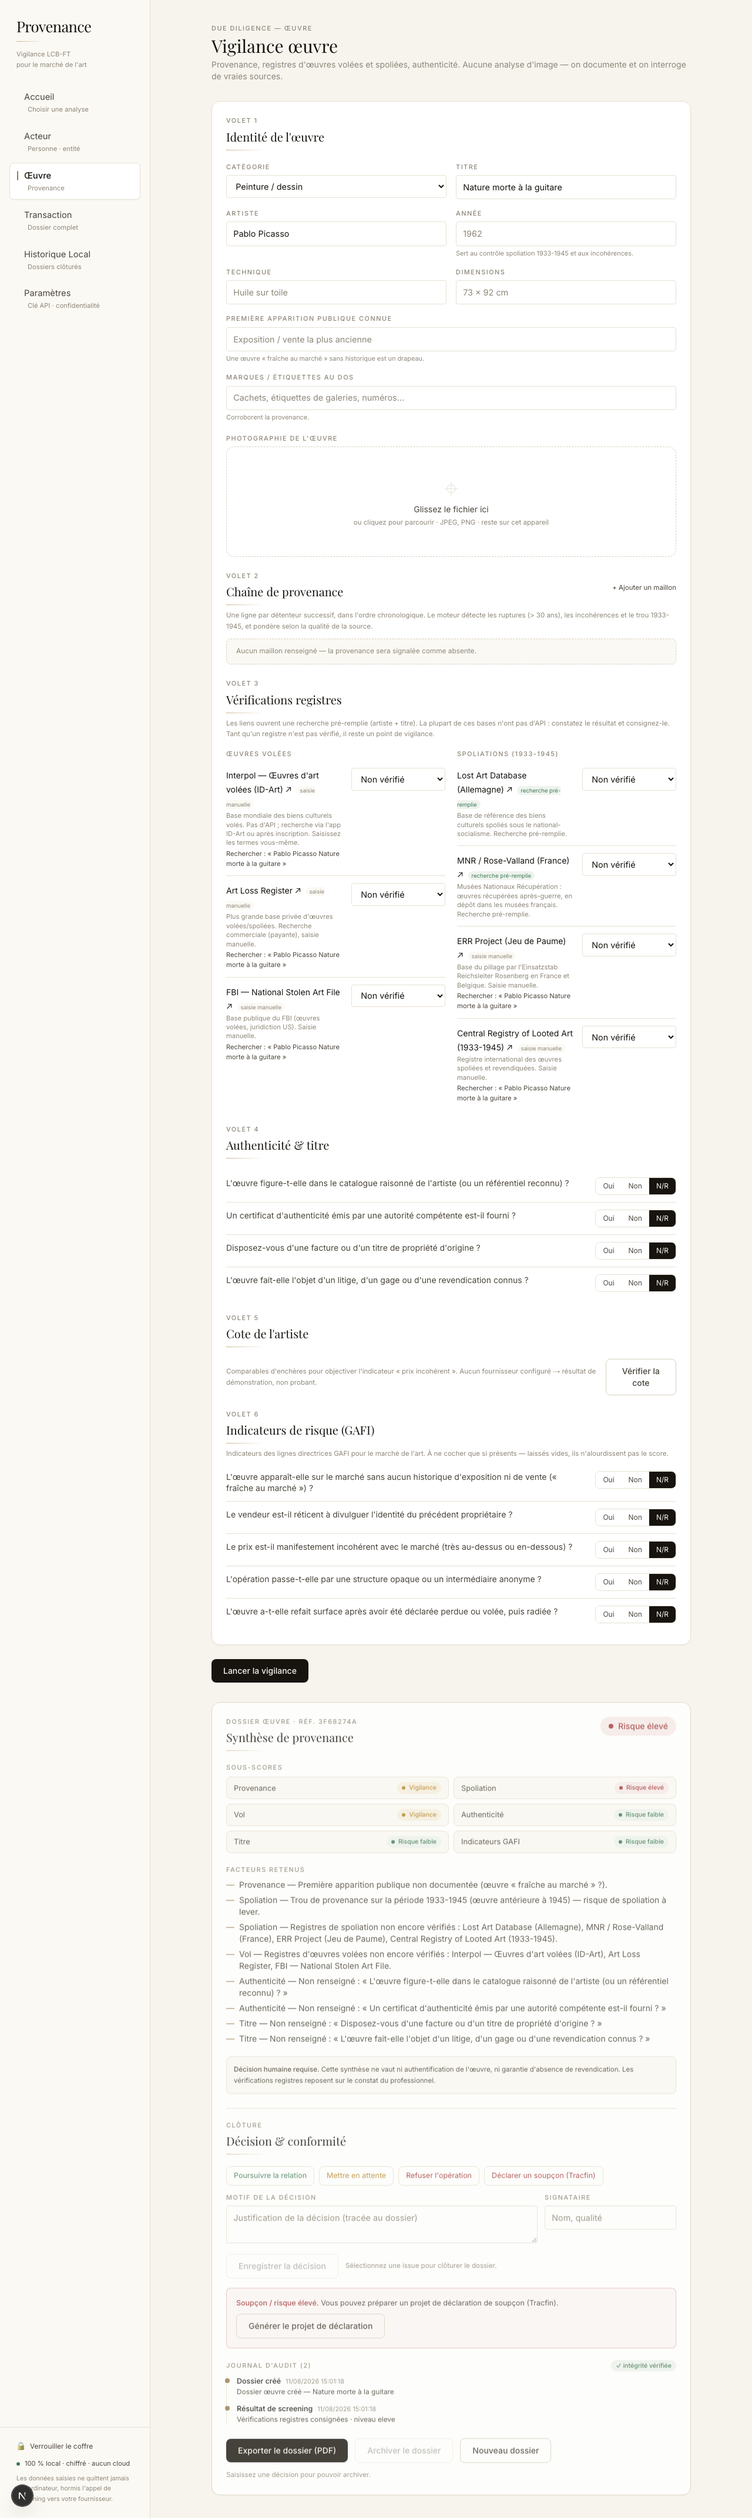
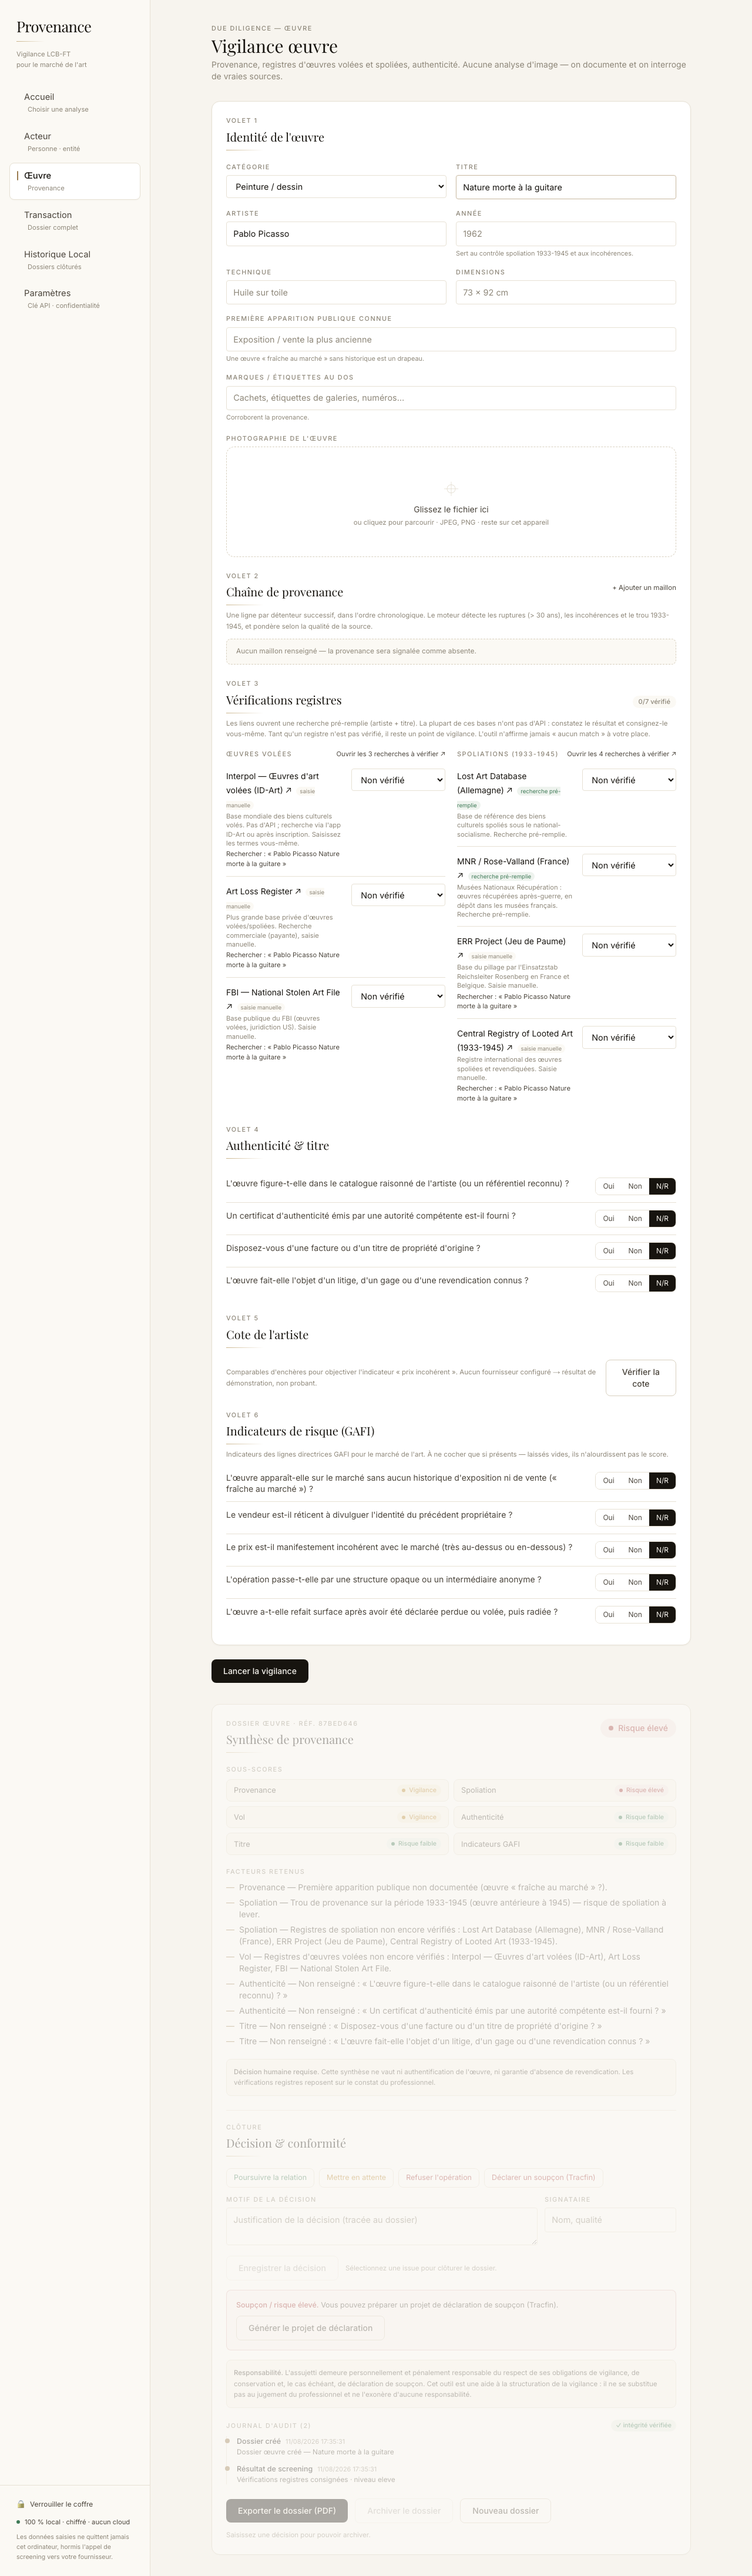
docs: mise à jour du dossier complet (7 évolutions + visuels)
Actualise docs/provenance-dossier-complet.html pour refléter les PR #6→#12 :
parser de dates floues, références CMF PPE/pays tiers + disclaimer pénal,
modes de transaction, rappel CI GAFI, ouverture groupée des registres,
rappel & priorisation de la vigilance, OCR local assisté.

- Encadré « Évolutions récentes » ; sections 5.1/5.2/5.3, 2, 7, 11, 15, 16
  mises à jour ; compteurs (155 tests) et dates rafraîchis.
- Captures régénérées + 2 nouvelles (sélecteur de mode transaction,
  compteur/ouverture groupée des registres). Rendu vérifié (0 image cassée).

diff --git a/docs/provenance-dossier-complet.html b/docs/provenance-dossier-complet.html
@@ -163,11 +163,19 @@
   <div class="meta">
     <span>Next.js 16 · React 19</span>
     <span>100 % local · coffre chiffré AES-GCM</span>
-    <span>127 tests · CI verte</span>
+    <span>155 tests · 4 E2E · CI verte</span>
     <span>Snapshot GAFI : juin 2026</span>
-    <span>Document généré le 2026-08-11</span>
+    <span>Mis à jour le 2026-08-12</span>
   </div>
 </header>
+
+<div class="note ok" style="margin:0 0 8px"><span class="lbl">Évolutions récentes (août 2026)</span>
+Sept améliorations intégrées, toutes conformes aux principes fondateurs (tout-local, registres honnêtes,
+aucune analyse d'image, revue humaine) : <strong>parser de dates floues</strong> (anti faux-négatif spoliation),
+<strong>références CMF distinctes PPE / pays tiers</strong> + <strong>disclaimer de responsabilité pénale</strong>,
+<strong>modes de transaction</strong> (vente / achat / intermédiation), <strong>rappel CI de péremption GAFI</strong>,
+<strong>ouverture groupée des registres</strong>, <strong>rappel &amp; priorisation de la vigilance</strong>,
+et <strong>OCR local assisté</strong> des pièces.</div>
 
 <!-- ============ 1 ============ -->
 <h2 id="vue"><span class="num">01</span>Vue d'ensemble &amp; positionnement</h2>
@@ -209,10 +217,12 @@ IV aléatoire de 12 octets à chaque opération. La phrase secrète n'est <stron
 clé dérivée vit en mémoire de session. Le verrouillage la purge. Perte de la phrase = données irrécupérables
 (d'où l'export chiffré).</p></div></div>
 
-<div class="feat"><div class="ic">⚖</div><div class="bd"><h4>Revue humaine obligatoire</h4>
+<div class="feat"><div class="ic">⚖</div><div class="bd"><h4>Revue humaine obligatoire &amp; responsabilité pénale</h4>
 <p>Toute synthèse porte l'invariant <code>revueHumaineRequise: true</code>. L'archivage d'un dossier est
 <em>bloqué</em> tant qu'une décision humaine datée et signée n'a pas été prise. Les barèmes et seuils sont
-« indicatifs, à valider par un juriste ».</p></div></div>
+« indicatifs, à valider par un juriste ». <span class="chip low">nouveau</span> Un rappel explicite — à la clôture
+<em>et</em> dans le rapport PDF — précise que l'assujetti reste <strong>personnellement et pénalement
+responsable</strong> ; l'outil assiste, il n'exonère pas.</p></div></div>
 
 <div class="feat"><div class="ic">🧾</div><div class="bd"><h4>Piste d'audit inviolable (détectable)</h4>
 <p>Chaque événement est chaîné par hash SHA-256 au précédent : toute altération est <em>détectable</em>
@@ -290,6 +300,10 @@ de bénéficiaires effectifs (UBO) permet de déclarer la cascade de détention 
 erreur de screening, risque-pays dérivé du pays <em>et</em> de la nationalité.</li>
 <li><strong>Case « transaction &gt; seuil »</strong> : si cochée pour un acheteur, la pièce d'identité devient
 <em>obligatoire</em> et bloque la création du dossier tant qu'elle manque.</li>
+<li><strong>OCR local assisté</strong> <span class="chip low">nouveau</span> : une fois la pièce déposée, un bouton
+« Analyser la pièce » lit le document <em>dans le navigateur</em> (tesseract.js — l'image ne quitte jamais la machine)
+et <strong>propose</strong> des champs (nom, prénoms, naissance, nationalité ; ou raison sociale + SIREN pour une entité).
+Les champs sont <strong>éditables</strong> et ne s'appliquent qu'à votre validation — jamais d'autofill silencieux.</li>
 <li><strong>Sortie</strong> : niveau de vigilance (tier), sous-scores explicables, pièces à collecter justifiées.</li>
 </ul>
 <figure class="tall">
@@ -308,13 +322,25 @@ par l'humain (l'outil ouvre Google Lens / TinEye) ; seules les métadonnées EXI
 <li><strong>Identité &amp; preuves</strong> — catégorie (qui adapte la checklist), titre, artiste, année, marques au dos, photo.</li>
 <li><strong>Chaîne de provenance</strong> — un maillon par détenteur, avec qualité de source graduée
 (<span class="chip neutral">aucune → mention → facture → catalogue → archive</span>). Détection des ruptures &gt; 30 ans,
-des incohérences (maillon antérieur à la création) et du trou 1933-1945.</li>
+des incohérences (maillon antérieur à la création) et du trou 1933-1945. <span class="chip low">amélioré</span>
+Les <strong>dates floues</strong> (« vers 1941 », « années 40 », « milieu du XXᵉ siècle », « XVIIᵉ siècle ») sont
+désormais interprétées de façon prudente pour ne pas rater ce trou.</li>
 <li><strong>Registres</strong> — vol (Interpol ID-Art, Art Loss Register, FBI NSAF) et spoliation (Lost Art DB,
-MNR/Rose-Valland, ERR, Central Registry). Liens de recherche pré-remplis ; l'humain <em>constate</em> et consigne.</li>
+MNR/Rose-Valland, ERR, Central Registry). Liens de recherche pré-remplis ; l'humain <em>constate</em> et consigne.
+<span class="chip low">nouveau</span> Un <strong>compteur « X/N vérifiés »</strong> et un bouton d'<strong>ouverture
+groupée</strong> (« Ouvrir les N recherches à vérifier ») fluidifient le travail — sans jamais cocher « aucun match »
+à votre place.</li>
 <li><strong>Authenticité &amp; titre</strong> — checklist adaptée (catalogue raisonné, certificat, litige, CITES, édition…).</li>
 <li><strong>Cote de l'artiste</strong> — comparables de marché &amp; cohérence de prix (optionnel).</li>
 <li><strong>Indicateurs GAFI</strong> — 5 drapeaux du rapport GAFI 2023 (œuvre « fraîche au marché », réticence…).</li>
 </ol>
+<figure class="tall">
+  <div class="frame"><span class="dot"></span><span class="dot"></span><span class="dot"></span>&nbsp; Module Œuvre — formulaire &amp; vérifications registres <span class="scroll-hint">· faites défiler</span></div>
+  <div class="shotwrap"><img src="./assets/10-oeuvre-registres.png" alt="Formulaire œuvre avec le compteur et l'ouverture groupée des registres"></div>
+  <figcaption><b>Volet registres.</b> Le compteur <b>« 0/6 vérifié »</b> et le bouton « Ouvrir les N recherches à
+  vérifier » de chaque colonne (œuvres volées / spoliations) accélèrent la vérification, tout en laissant
+  l'humain constater et consigner le résultat.</figcaption>
+</figure>
 <figure class="tall">
   <div class="frame"><span class="dot"></span><span class="dot"></span><span class="dot"></span>&nbsp; Module Œuvre — synthèse de provenance <span class="scroll-hint">· faites défiler</span></div>
   <div class="shotwrap"><img src="./assets/05-oeuvre-resultat.png" alt="Synthèse de provenance d'une œuvre"></div>
@@ -327,6 +353,25 @@ MNR/Rose-Valland, ERR, Central Registry). Liens de recherche pré-remplis ; l'hu
 <p>Réunit acheteur + (vendeur) + œuvre et <strong>agrège</strong> leurs synthèses, en ajoutant le risque
 purement transactionnel (espèces/crypto, paiement par un tiers, urgence/discrétion). Le montant saisi alimente
 à la fois le seuil de vigilance et le verdict de cohérence de prix de l'œuvre.</p>
+<p><span class="chip low">nouveau</span> Un <strong>sélecteur de nature d'opération</strong> détermine les parties
+réellement évaluées, et donc les pièces demandées et le contenu du rapport :</p>
+<div class="grid3">
+  <div class="card"><h4>Vente</h4><p class="muted" style="font-size:.88rem">Galerie → acheteur. Seuls
+  l'<strong>acheteur</strong> et l'œuvre sont évalués.</p></div>
+  <div class="card"><h4>Achat</h4><p class="muted" style="font-size:.88rem">Vendeur → galerie. Seuls
+  le <strong>vendeur</strong> et l'œuvre sont évalués.</p></div>
+  <div class="card"><h4>Intermédiation</h4><p class="muted" style="font-size:.88rem">Vendeur → acheteur.
+  <strong>Les deux parties</strong> + l'œuvre sont évaluées.</p></div>
+</div>
+<p class="muted" style="font-size:.9rem">En vente/achat, la galerie est sa propre contrepartie et n'est pas
+screenée. L'agrégation prend le pire des sous-scores <em>parmi les parties présentes</em>, sans pénalité pour une
+partie absente.</p>
+<figure class="tall">
+  <div class="frame"><span class="dot"></span><span class="dot"></span><span class="dot"></span>&nbsp; Module Transaction — sélecteur de mode <span class="scroll-hint">· faites défiler</span></div>
+  <div class="shotwrap"><img src="./assets/09-transaction-mode.png" alt="Sélecteur de mode d'opération de la transaction"></div>
+  <figcaption><b>Nature de l'opération.</b> Le mode (ici « Vente ») affiche uniquement la carte Acheteur ; en
+  « Achat » ce serait la carte Vendeur ; en « Intermédiation », les deux.</figcaption>
+</figure>
 <figure class="tall">
   <div class="frame"><span class="dot"></span><span class="dot"></span><span class="dot"></span>&nbsp; Module Transaction — dossier agrégé <span class="scroll-hint">· faites défiler</span></div>
   <div class="shotwrap"><img src="./assets/06-transaction-resultat.png" alt="Synthèse agrégée d'une transaction"></div>
@@ -437,6 +482,11 @@ Bolivie, Koweït, Irak, Bosnie-Herzégovine, Îles Vierges britanniques…</p></
 <strong>8 mois</strong> (≈ 2 plénières), la page Paramètres affiche un bandeau rouge de péremption.
 La mise à jour reste <strong>manuelle</strong> dans le code — le garde-fou alerte, il ne corrige pas seul.</p></div>
 </div>
+<div class="note info"><span class="lbl">Rappel automatisé en CI <span class="chip low">nouveau</span></span>
+Un job GitHub Actions <strong>mensuel</strong> (<code>gafi-reminder.yml</code>) réutilise <code>isGafiSnapshotStale</code>
+et, si le snapshot est périmé, <strong>ouvre une issue de rappel</strong> (anti-doublon) décrivant la procédure de
+mise à jour. Choix assumé : l'outil <strong>n'écrit jamais</strong> de liste juridique automatiquement (le site du
+GAFI bloque les bots, et une liste non vérifiée serait dangereuse) — il alerte, un humain met à jour et ouvre une PR.</div>
 <div class="note ok"><span class="lbl">Correction récente</span>
 Le snapshot était figé à « février 2025 » et classait mal 15 pays (faux positifs Nigéria/Afrique du Sud/Algérie…,
 faux négatifs Bolivie/Îles Vierges britanniques/Koweït/PNG/Bosnie/Irak). Il a été actualisé à la plénière de
@@ -510,6 +560,11 @@ Passé l'intervalle configuré (défaut 12 mois), <code>vigilanceDue</code> marq
 Le bouton <strong>Re-screener</strong> relance le screening de l'acteur (et de ses UBO), ré-agrège une transaction,
 journalise deux événements chaînés et <strong>signale toute aggravation</strong> par rapport à l'état précédent.
 Les dossiers « œuvre » (sans acteur) n'y sont pas soumis.</div>
+<div class="note ok"><span class="lbl">Rappel &amp; priorisation <span class="chip low">nouveau</span></span>
+Retenu comme alternative <em>tout-local</em> aux webhooks : un <strong>badge</strong> sur l'onglet Historique de la
+barre latérale affiche le nombre de dossiers à revoir depuis n'importe quelle page ; dans l'historique, un
+<strong>bandeau de rappel</strong> remonte ces dossiers <strong>en tête, du plus à risque au plus anciennement
+revu</strong> (<code>dossiersARevoir</code> / <code>countARevoir</code>).</div>
 
 <!-- ============ 12 ============ -->
 <h2 id="parametres"><span class="num">12</span>Paramètres &amp; confidentialité</h2>
@@ -565,10 +620,10 @@ ci-dessus. Le détail sourcé (avec URLs Légifrance) figure dans <code>BAREME_A
 <!-- ============ 15 ============ -->
 <h2 id="tests"><span class="num">15</span>Qualité : tests &amp; intégration continue</h2>
 <div class="grid3">
-<div class="card"><h4>127 tests unitaires</h4><p style="font-size:.88rem">Vitest — scoring, crypto, coffre,
-juridictions, marché, audit, monitoring, registres, routes API…</p></div>
+<div class="card"><h4>155 tests unitaires</h4><p style="font-size:.88rem">Vitest — scoring, dates, crypto, coffre,
+juridictions, marché, audit, monitoring, registres, OCR (parseurs), routes API…</p></div>
 <div class="card"><h4>4 parcours E2E</h4><p style="font-size:.88rem">Playwright (Chromium) : coffre, acteur,
-œuvre, transaction — parcours réels dans un navigateur.</p></div>
+œuvre, transaction — parcours réels dans un navigateur, sur serveur de production en CI.</p></div>
 <div class="card"><h4>Verrou du barème</h4><p style="font-size:.88rem"><code>bareme.test.ts</code> fige chaque
 valeur chiffrée : toute dérive doc↔code casse la CI.</p></div>
 </div>
@@ -578,18 +633,22 @@ et <code>e2e</code> (Playwright + rapport HTML archivé).</p>
 <!-- ============ 16 ============ -->
 <h2 id="limites"><span class="num">16</span>Limites connues &amp; feuille de route</h2>
 <ul>
-<li><strong>Extraction d'années par regex</strong> — ne comprend pas « circa 1940 », « XIXᵉ siècle » : le contrôle
-spoliation 1933-1945 et les ruptures peuvent passer à côté.</li>
+<li><strong>OCR assisté, non probant seul</strong> — la reconnaissance dépend de la qualité de la photo ; les
+parseurs ne proposent que ce qu'ils détectent (aucun champ inventé) et l'humain valide toujours. C'est un
+assistant de saisie, pas une source de vérité.</li>
+<li><strong>Interprétation des dates</strong> — comprend désormais « vers 1941 », « années 40 », « XIXᵉ/XVIIᵉ siècle »
+et le cadrage début/milieu/fin ; limite résiduelle : une date en toutes lettres inhabituelle ou non française
+reste non reconnue (sans faux positif).</li>
 <li><strong>Screening sur le nom</strong> — faux positifs/négatifs d'homonymie ; la désambiguïsation dépend du fournisseur.</li>
-<li><strong>Snapshot GAFI manuel</strong> — actualisé à juin 2026, garde-fou de péremption, mais mise à jour à refaire à chaque plénière.</li>
+<li><strong>Snapshot GAFI manuel</strong> — actualisé à juin 2026, garde-fou de péremption + rappel CI mensuel, mais mise à jour à refaire à chaque plénière.</li>
 <li><strong>Comparables de marché non archivés</strong> — l'humain reporte sa conclusion via l'indicateur prix.</li>
 <li><strong>Barème non validé juridiquement</strong> — c'est le verrou bloquant pour une mise en prod défendable.</li>
 </ul>
 <p class="muted">Évolutions envisagées : horodatage qualifié RFC 3161, portage desktop Tauri, connecteurs de
-marché supplémentaires, parsing de dates enrichi, actualisation semi-automatique des listes GAFI.</p>
+marché supplémentaires, données de langue OCR embarquées (hors-ligne total), actualisation semi-automatique des listes GAFI.</p>
 
 <div class="foot">
-  <strong>Provenance</strong> — dossier technique &amp; fonctionnel · généré le 2026-08-11.<br>
+  <strong>Provenance</strong> — dossier technique &amp; fonctionnel · mis à jour le 2026-08-12.<br>
   Document de synthèse ; en cas de divergence, le code (<code>src/</code>) et <code>BAREME_A_VALIDER.md</code>
   font foi. Cet outil est une aide à la vigilance LCB-FT et n'engage pas la conformité du professionnel assujetti,
   qui reste seul responsable de sa décision.
